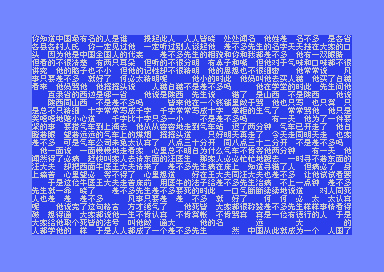
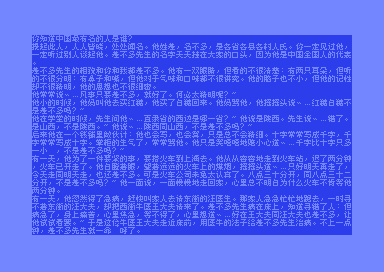
docs: update README for clarity on character support and scope versions

Changed region(s): [[0.0625, 0.1176, 0.9375, 0.8824]]

diff --git a/README.md b/README.md
@@ -4,9 +4,9 @@ A GB2312 Chinese text renderer for the Commodore 64, using 8×8 bitmap fonts wit
 
 ![Chabuduo rendered on C64](chabuduo.png)
 
-## Scope (v1 - Current: Rendering)
+## Scope v1 (Current: Rendering)
 
-- 2501 Simplified Chinese characters (GB2312 rows $B0-$D7)
+- 2501+ Simplified Chinese characters (GB2312 rows $B0-$D7)
 - 8×8 pixel bitmap font (8 bytes per glyph)
 - GB2312-encoded text display from binary files
 - Dynamic character caching (256 character slots)
@@ -14,12 +14,16 @@ A GB2312 Chinese text renderer for the Commodore 64, using 8×8 bitmap fonts wit
 - Offline table generation in Python
 - Runtime rendering on C64 in 6502 assembly (ACME)
 
-## Scope (v2 - Future: IME)
+## Scope v1.5 (Current: multiple charsets)
+
+- Dual charset support (512 character slots) using raster IRQ
+- 8×7 pixel bitmap font (7 bytes per glyph) to save space
+
+## Scope v2 (Future: IME)
 
 - Pinyin input method with candidate selection
 - Interactive text editing
 - Cursor movement and scrolling
-- Dual charset support (512 character slots)
 - See "Future Work" section below
 
 ## Core Architecture (v1)
@@ -62,12 +66,12 @@ All are:
 
 ### Glyph Storage
 
-**font8.bin**
+**font8.bin** or **font7.bin** (for v1.5)
 
 Layout:
 
-- glyphID × 8 bytes
-- 1 byte per row, 8 bits used (8×8 bitmap)
+- glyphID × 8 bytes (or 7 bytes for v1.5)
+- 1 byte per row, 8 bits used: 8×8 bitmap (or 8×7 for v1.5)
 
 ## glyphID Ordering (Important)
 
@@ -122,7 +126,7 @@ Referenced by pointer tables `gb_row_ptr_lo` and `gb_row_ptr_hi` in main.asm.
 
 ## Character Cache
 
-**cache** (2502 bytes in main.asm)
+**cache** (2501+ bytes in main.asm)
 
 - Indexed by glyphID (0..2501)
 - Stores character slot (0-255) if glyph is loaded, or 0 if not cached
@@ -140,6 +144,7 @@ This limits visible unique characters to 256 at once, but allows documents with 
 **Outputs:**
 
 - `font8.bin` (2501 × 8 bytes)
+- `font7.bin` (2501 × 7 bytes for v1.5)
 - `gb40_rows.asm` (40 row tables with rank encoding)
 
 All tables are included in assembly using `!binary` and `!source`.
